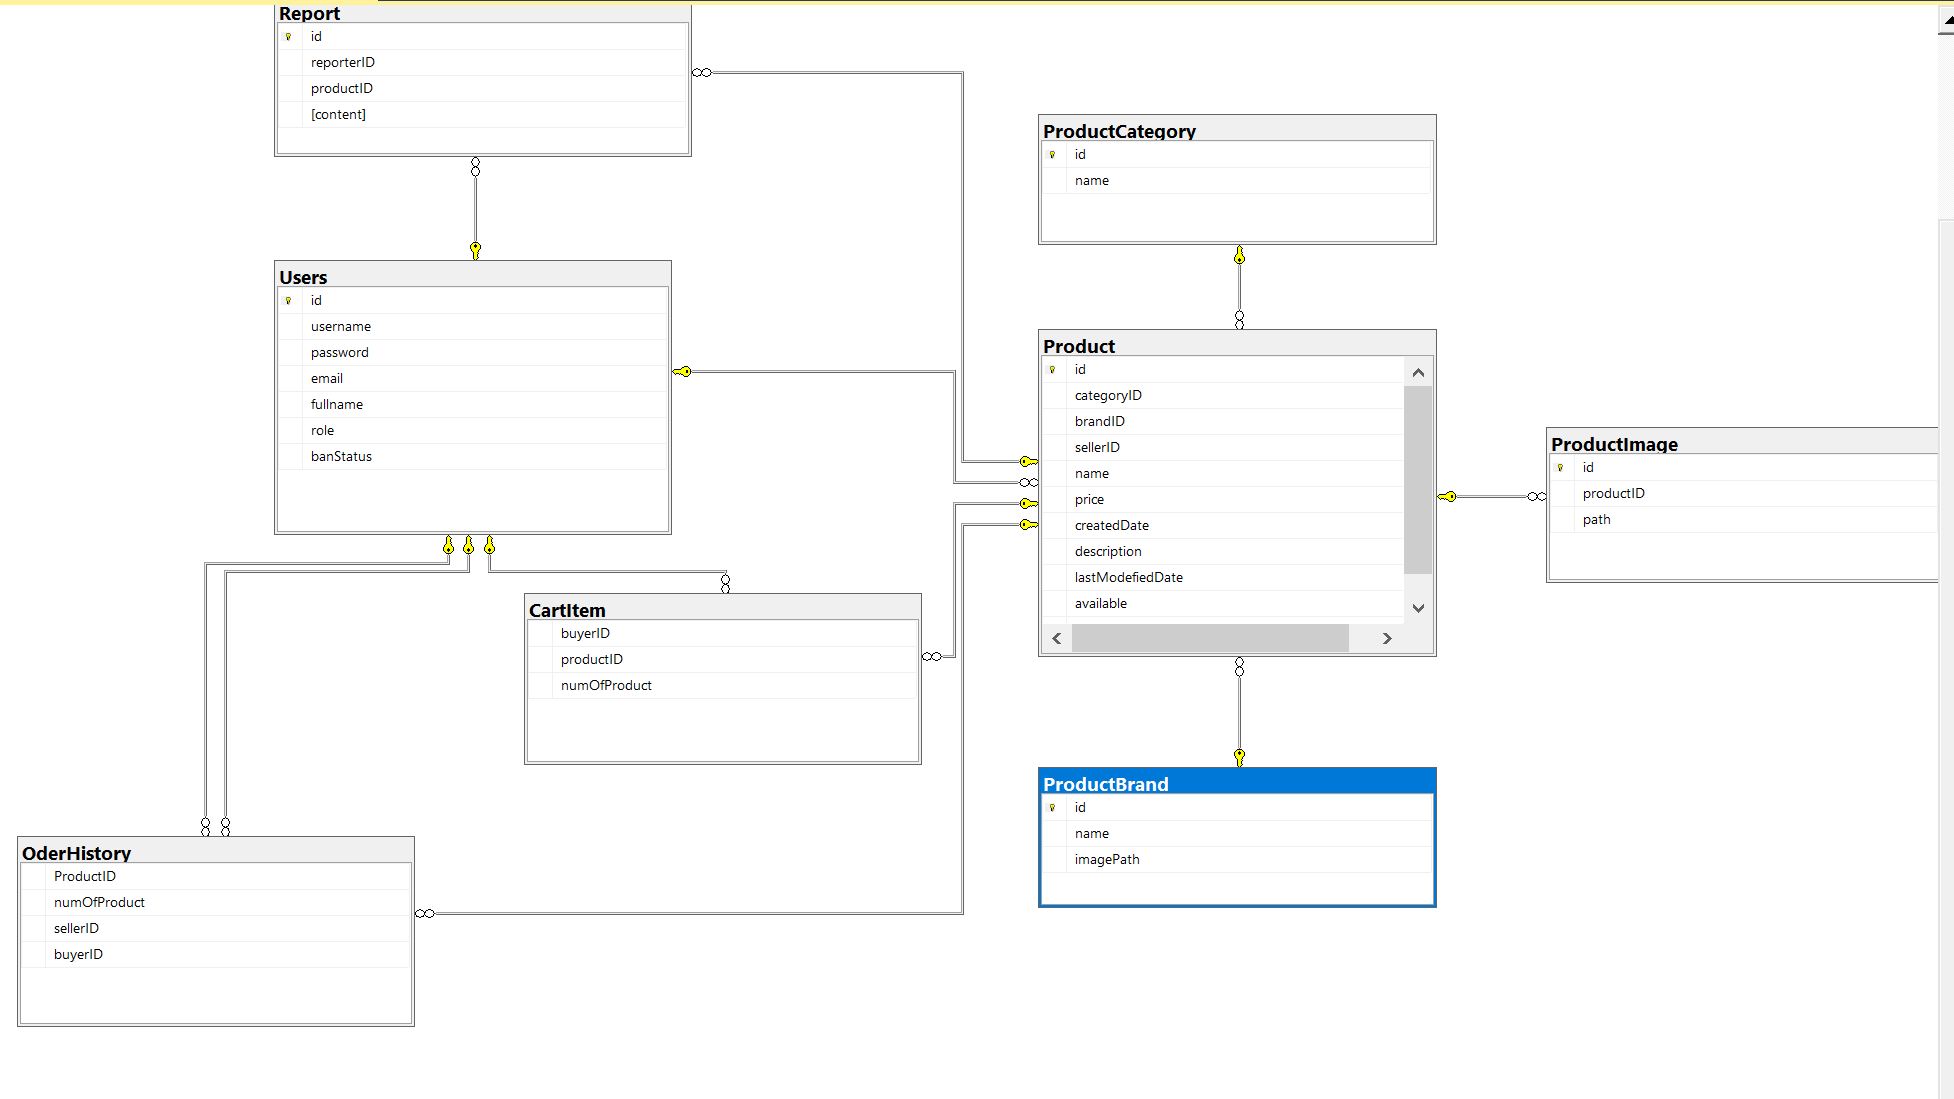
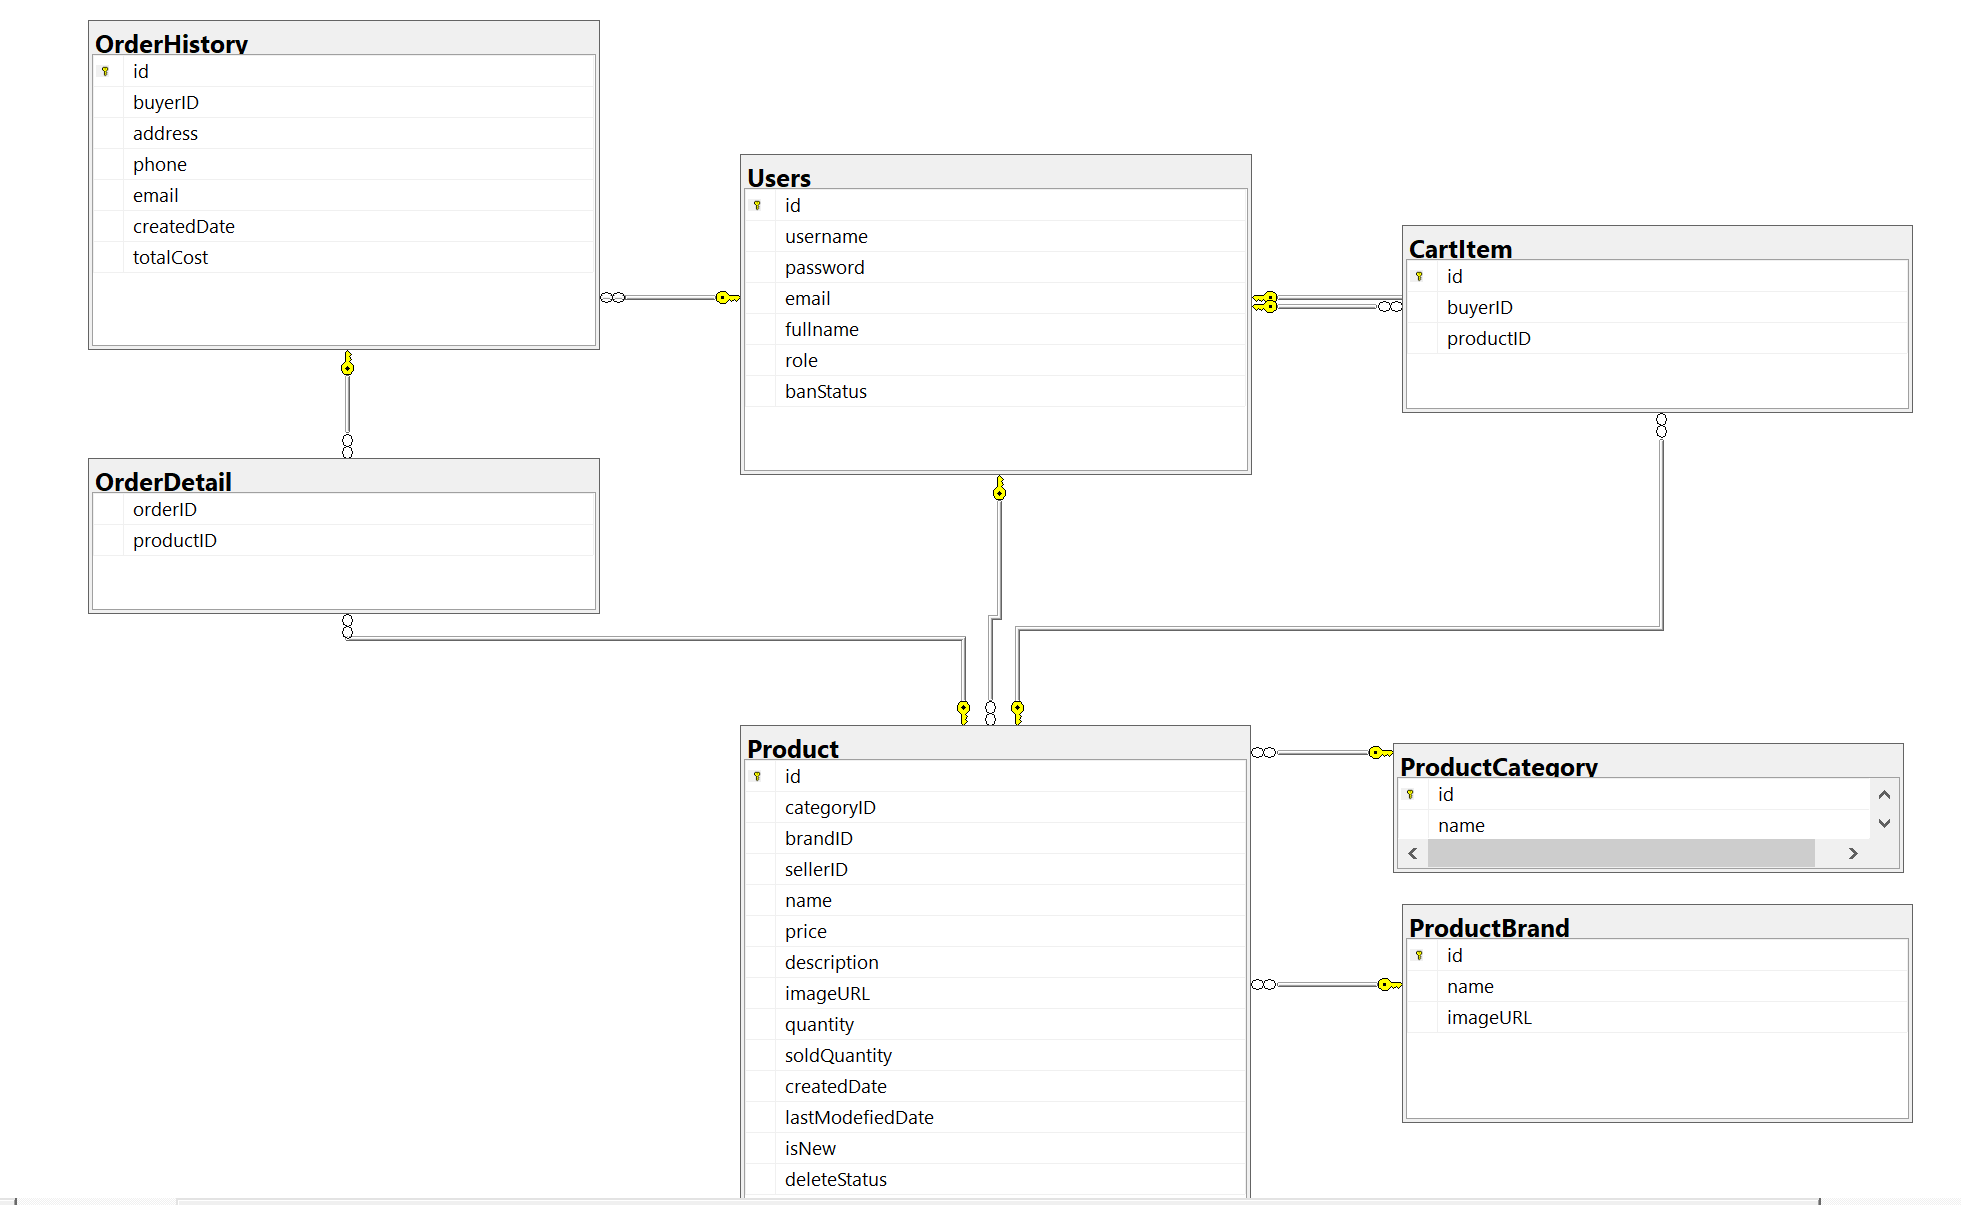
update dtb design and sitemap
update dtb design and sitemap

diff --git a/README.md b/README.md
@@ -1,8 +1,8 @@
 # ** LaptopsGo **
 
-## Convinience marketplace to trade laptop from new to used for everybody.
+## Convenience marketplace to trade laptop from new to used for everybody.
 
-LaptopsGo aims to provides an online marketplace with basic UI for user to quickly and easily buy and sell their product(laptop only), building a brigde to connect retail store that are looking for a platform to sell their product and buyer who want to buy a high quality product.
+LaptopsGo aims to provide an online marketplace for user to quickly and easily buy and sell their product, LaptopsGo connects retail store or inviduals who are looking for a platform to sell their product and buyer who want to buy a high quality product.
 
 ## Team
 
@@ -15,25 +15,23 @@ LaptopsGo aims to provides an online marketplace with basic UI for user to quick
 -   Student, Officer, Online shop, and who want to buy and sell laptop
 
 ## Features
-
+#### All user
 -   Create accounts.
 -   Login, Logout.
--   View, sort, search product.
+-   View, filter, search product.
 -   View and edit account.
 
 #### Admin
 
 -   Ban user.
--   Search, Remove seller's product.
--   Manage categories.
--   Review, Approve, Ignore reports.
+-   Search, Remove product.
+-   Manage categories, brands.
 
 #### Buyer:
 
 -   Add products to cart.
--   View, change quantity, Remove cart items.
+-   View, Remove cart items.
 -   Checkout.
--   Report products.
 
 #### Seller:
 
@@ -70,9 +68,6 @@ LaptopsGo aims to provides an online marketplace with basic UI for user to quick
 
 ![LaptopsGo Submit](./assets/wireframes/LaptopsGo_SubmitProduct.png)
 
-#### Review report page: (only for admin role)
-
-![LaptopsGo Report page](./assets/wireframes/LaptopsGo_ReviewReport.png)
 
 #### Account list page: (only for admin role)
 
